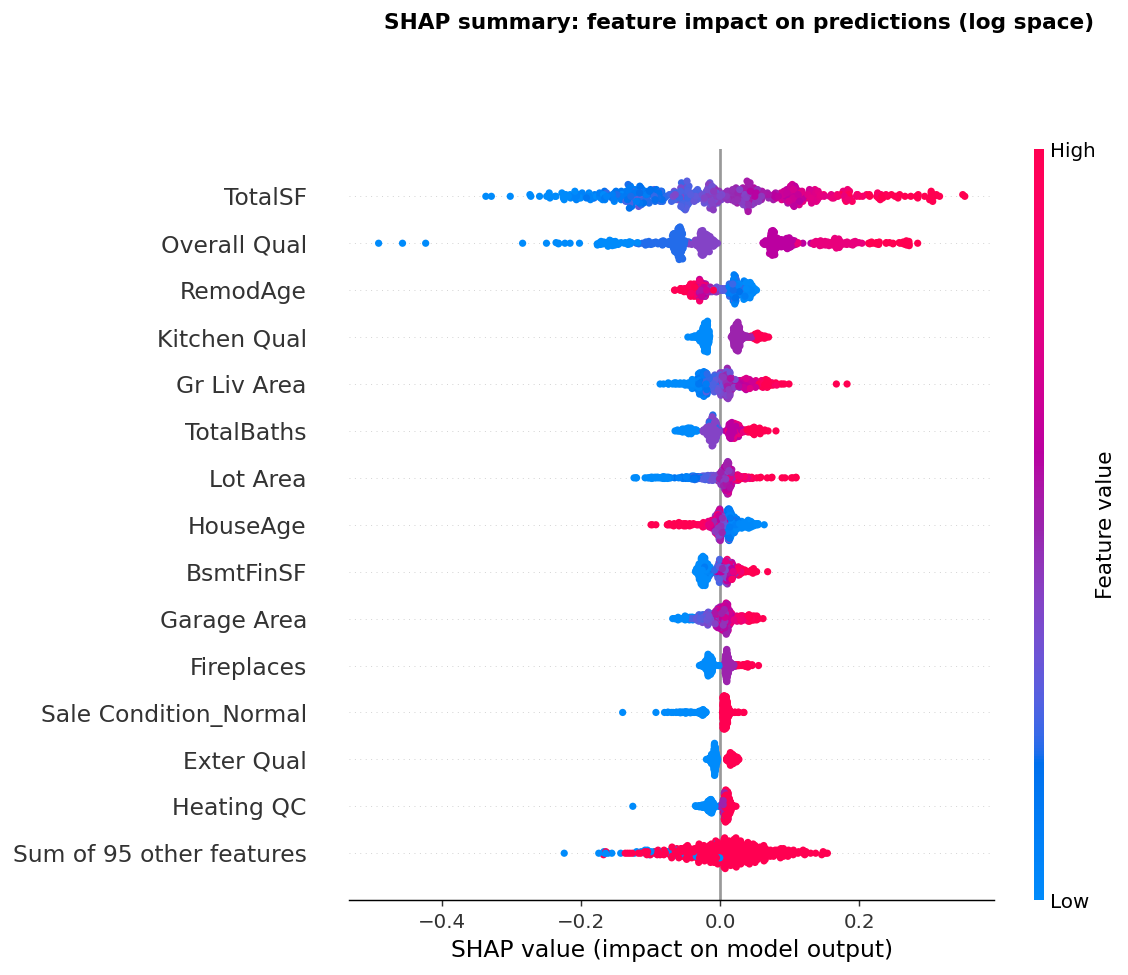
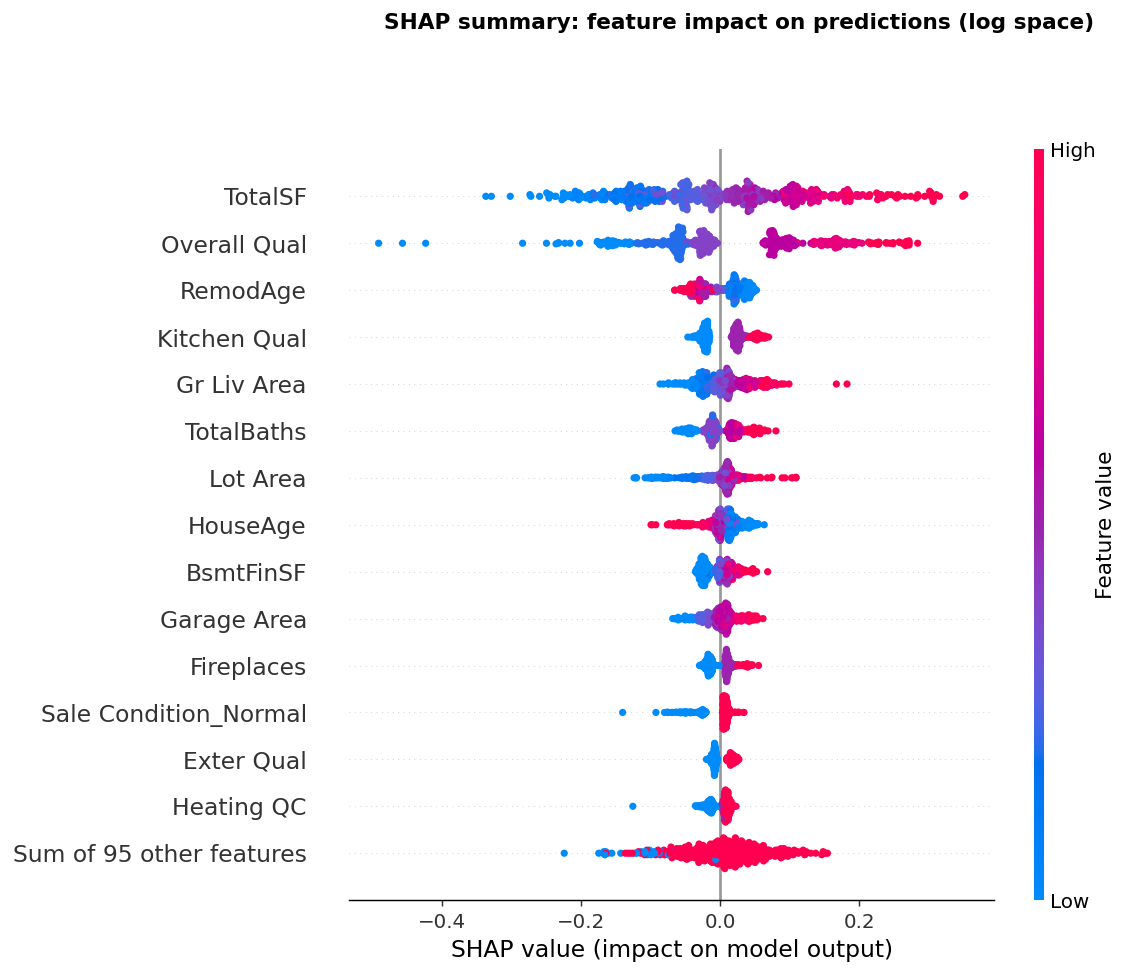
Updates Readme and generate test data.

diff --git a/generate_test_data.py b/generate_test_data.py
@@ -52,7 +52,7 @@ import pandas as pd
 # ---------------------------------------------------------------------------
 
 REFERENCE_CSV = os.path.join("data", "raw", "AmesHousing.csv")  # for schema + column order
-OUTPUT_CSV = "AmesHousing_test.csv"
+OUTPUT_CSV = os.path.join("data", "test", "AmesHousing_test.csv")
 
 SEED = 42
 
@@ -352,6 +352,7 @@ def run():
     all_houses = spread + outliers + pairs
     df = pd.DataFrame(all_houses)[ref_cols]  # enforce exact schema + order
 
+    os.makedirs(os.path.dirname(OUTPUT_CSV), exist_ok=True)
     df.to_csv(OUTPUT_CSV, index=False)
     print(f"[generate] {len(spread)} spread + {len(outliers)} outliers + "
           f"{len(pairs)} pair-houses = {len(df)} total.")

diff --git a/run.py b/run.py
@@ -70,7 +70,7 @@ TEST_OUT = os.path.join(PROC, "predictions_test.csv")
 DEMO_OUT_TABPFN = os.path.join(PROC, "predictions_demo_tabpfn.csv")
 TEST_OUT_TABPFN = os.path.join(PROC, "predictions_test_tabpfn.csv")
 
-TEST_DATA_CSV = "AmesHousing_test.csv"
+TEST_DATA_CSV = os.path.join("data", "test", "AmesHousing_test.csv")
 
 
 def banner(text: str) -> None:

diff --git a/README.md b/README.md
@@ -63,6 +63,36 @@ dataset.
 
 ![Neighbourhood effect](analysis/eda_neighbourhood.png)
 
+## Engineered features and encoding
+
+The raw dataset has about 80 columns. Rather than feed them in as-is, several new
+features were built to concentrate signal, and the categorical columns were
+encoded in a way that respects their meaning. The main engineered features:
+
+| Feature | How it is built | Why |
+|---|---|---|
+| `TotalSF` | Total Bsmt SF + 1st Flr SF + 2nd Flr SF | Total living space in one strong feature; ends up the top predictor |
+| `TotalBaths` | Full baths + 0.5 x half baths, all floors | One combined bathroom count, weighting half-baths sensibly |
+| `TotalPorchSF` | Sum of all porch/deck area columns | Collapses several sparse columns into one |
+| `BsmtFinSF` | Finished basement area | Separates finished from unfinished basement space |
+| `HouseAge` | Yr Sold - Year Built | Age at sale matters to price, not the raw build year |
+| `RemodAge` | Yr Sold - Year Remod/Add | Time since the last remodel |
+| `Remodelled` | Flag: has the house been remodelled | Captures a renovation cleanly |
+| `NearNegative` | Flag: next to a busy road or railway | Price-suppressing location factors from Condition 1 |
+| `NearPositive` | Flag: next to a park or greenbelt | Price-lifting location factors from Condition 1 |
+| `HasDeductions` | Flag: home has functionality deductions | Simplifies the Functional column into a single signal |
+
+**Encoding respects whether a category is ordered.** Quality grades are *ordered*
+(Excellent really is better than Good), so they are mapped to ranked integers that
+preserve that order: `{None: 0, Po: 1, Fa: 2, TA: 3, Gd: 4, Ex: 5}`. Nine quality
+columns share this same scale because the dataset's assessors used it
+consistently. Unordered categories (like `Neighborhood` or `Garage Type`) have no
+natural ranking, so they are one-hot encoded instead, which avoids implying an
+order that does not exist.
+
+Full definitions of the original columns are in the
+[Ames Housing data documentation](http://jse.amstat.org/v19n3/decock.pdf).
+
 ## Model accuracy
 
 Both models track actual prices closely, with the scatter widening at the